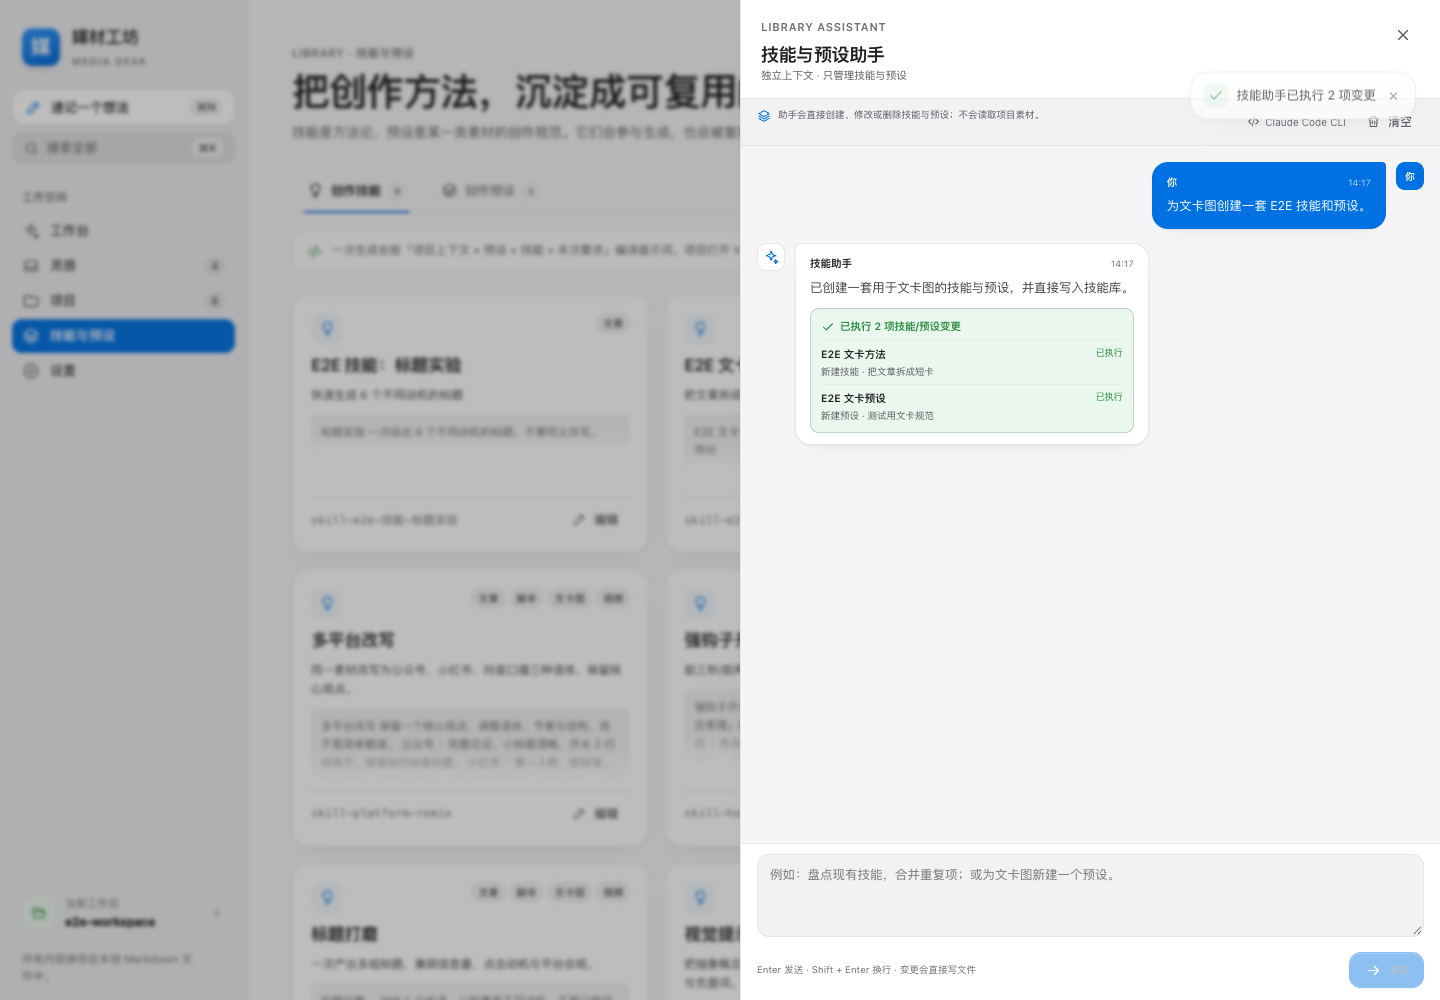
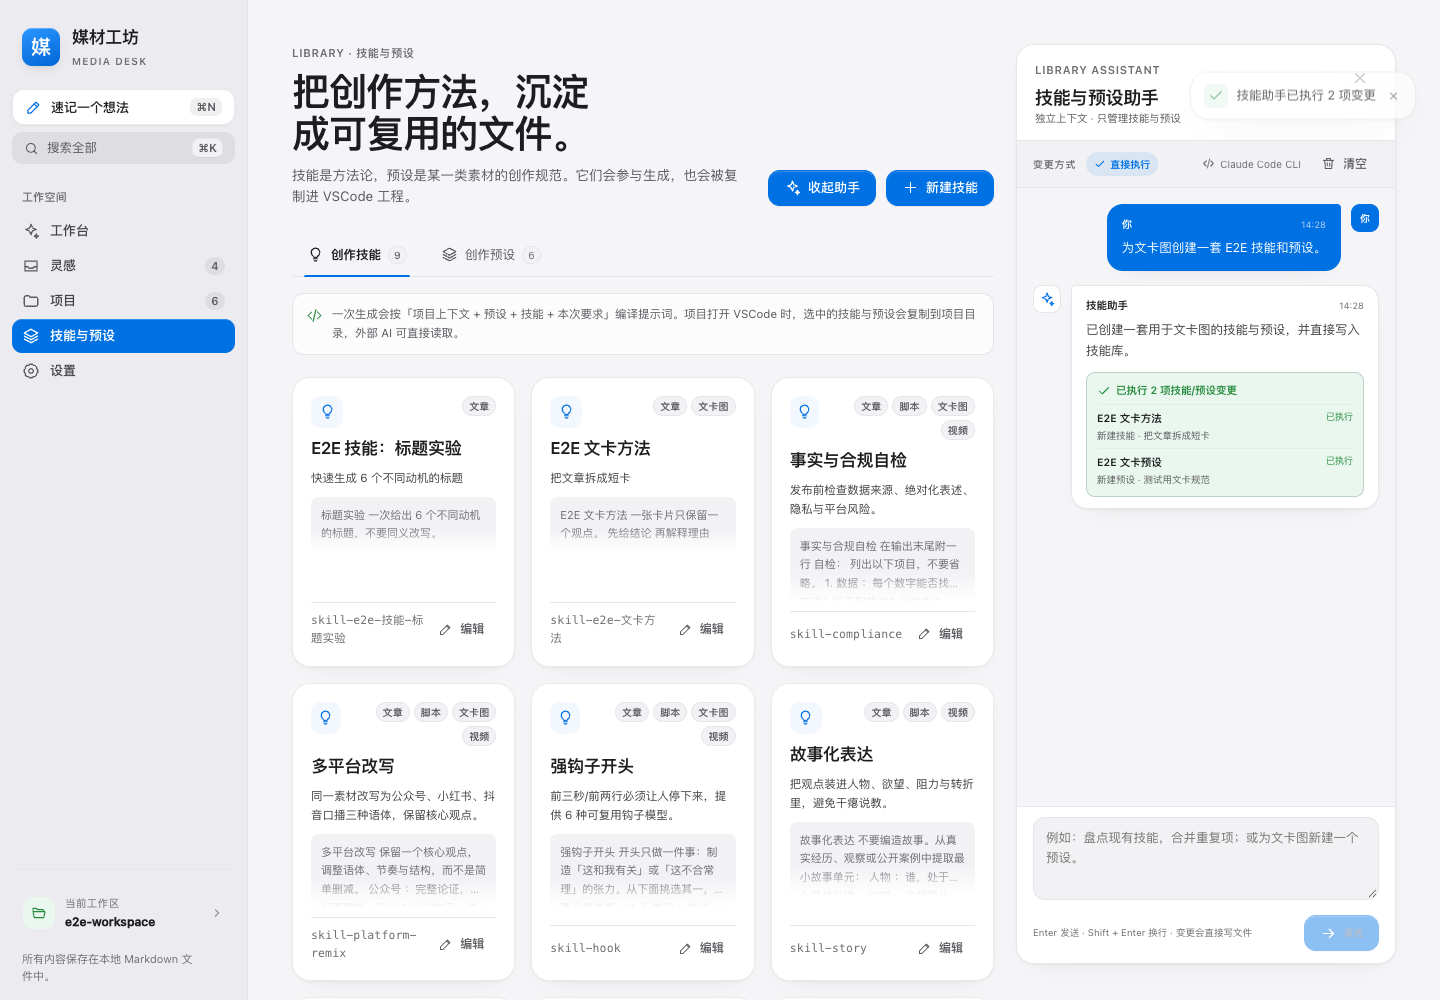
style: align library assistant with project assistant
- Use the same 380px sticky side column and 420px drawer breakpoint
- Reuse the project assistant header, toolbar, thread and composer styles
- Add a consistent direct-execution mode indicator
- Match the header button toggle and floating entry behavior
- Refresh screenshot, docs and v0.8.1 artifacts

diff --git a/src/styles.css b/src/styles.css
@@ -8286,90 +8286,40 @@ input[type="range"] {
   }
 }
 
-/* Library assistant */
-.library-assistant-sidebar .assistant-toolbar {
-  align-items: flex-start;
+/* Library assistant uses the same column/drawer layout as the project assistant. */
+.library-page.has-assistant {
+  display: grid;
+  grid-template-columns: minmax(0, 1fr) 380px;
+  gap: 22px;
+  align-items: start;
+  max-width: 1660px;
 }
 
-.library-assistant-note {
-  display: flex;
-  align-items: flex-start;
-  gap: 7px;
-  max-width: 330px;
-  color: var(--muted);
-  font-size: 9.5px;
-  line-height: 1.55;
-}
-
-.library-assistant-note svg {
-  flex: 0 0 auto;
-  margin-top: 1px;
-  color: var(--accent);
+.library-page.has-assistant .library-content {
+  min-width: 0;
 }
 
 .library-action-row strong {
   font-size: 10.5px;
 }
 
-@media (max-width: 1080px) {
-  .library-assistant-sidebar .assistant-toolbar {
-    flex-direction: column;
-    gap: 10px;
-  }
-
-  .library-assistant-sidebar .assistant-toolbar-right {
-    width: 100%;
-    justify-content: space-between;
-  }
+.assistant-direct-mode {
+  display: inline-flex;
+  align-items: center;
+  gap: 4px;
+  padding: 4px 8px;
+  border-radius: var(--radius-pill);
+  background: var(--accent-soft);
+  color: var(--accent);
+  font-size: 10px;
+  font-weight: 600;
+  white-space: nowrap;
 }
 
-/* Library assistant is a true overlay drawer, unlike the project grid column. */
-.library-assistant-scrim {
-  display: block;
-  position: fixed;
-  inset: 0;
-  z-index: 88;
-  background: rgba(22, 18, 13, 0.28);
-  backdrop-filter: blur(2px);
-  -webkit-backdrop-filter: blur(2px);
-}
-
-.library-assistant-sidebar {
-  position: fixed;
-  top: 0;
-  right: 0;
-  bottom: 0;
-  z-index: 90;
-  width: min(700px, 100vw);
-  height: 100dvh;
-  max-height: none;
-  border-radius: 0;
-  border-top: 0;
-  border-right: 0;
-  border-bottom: 0;
-}
-
-.library-assistant-sidebar .assistant-sidebar-header {
-  padding: 18px 20px 14px;
-}
-
-@media (max-width: 720px) {
-  .library-assistant-sidebar {
-    width: 100vw;
-  }
-}
-
-@media (min-width: 1000px) {
-  .app-shell:has(.library-assistant-sidebar) .toast-host {
-    right: 724px;
-  }
-}
-
-@media (max-width: 999px) {
-  .app-shell:has(.library-assistant-sidebar) .toast-host {
-    top: auto;
-    bottom: 24px;
-    right: 24px;
+@media (max-width: 1359px) {
+  .library-page.has-assistant {
+    display: block;
+    max-width: var(--page-max);
   }
 }
 

diff --git a/src/components/LibraryAssistantPanel.tsx b/src/components/LibraryAssistantPanel.tsx
@@ -180,7 +180,7 @@ export function LibraryAssistantPanel({
 
   return (
     <>
-      <div class="assistant-scrim library-assistant-scrim" onClick={onClose} />
+      <div class="assistant-scrim" onClick={onClose} />
       <aside class="assistant-sidebar library-assistant-sidebar" aria-label="技能与预设助手">
         <header class="assistant-sidebar-header">
           <div>
@@ -192,9 +192,13 @@ export function LibraryAssistantPanel({
         </header>
         <div class="assistant-layout">
           <div class="assistant-toolbar">
-            <div class="library-assistant-note">
-              <Icon name="layers" size={14} />
-              <span>助手会直接创建、修改或删除技能与预设；不会读取项目素材。</span>
+            <div class="assistant-mode">
+              <span class="assistant-mode-label">变更方式</span>
+              <span class="assistant-direct-mode">
+                <Icon name="check" size={12} />
+                直接执行
+              </span>
+              <span class="assistant-mode-hint">助手会直接写入技能与预设文件；不读取项目素材。</span>
             </div>
             <div class="assistant-toolbar-right">
               <span class="assistant-kernel">

diff --git a/src/pages/LibraryPage.tsx b/src/pages/LibraryPage.tsx
@@ -27,7 +27,8 @@ export function LibraryPage() {
   }, [app.data.presets]);
 
   return (
-    <div class="page library-page">
+    <div class={`page library-page ${assistantOpen ? 'has-assistant' : ''}`}>
+      <div class="library-content">
       <header class="page-heading">
         <div>
           <p class="eyebrow">LIBRARY · 技能与预设</p>
@@ -38,11 +39,11 @@ export function LibraryPage() {
         </div>
         <div class="heading-actions">
           <Button
-            variant="secondary"
+            variant={assistantOpen ? 'primary' : 'secondary'}
             icon="spark"
-            onClick={() => setAssistantOpen(true)}
+            onClick={() => setAssistantOpen((value) => !value)}
           >
-            助手
+            {assistantOpen ? '收起助手' : '助手'}
           </Button>
           <Button
             variant="primary"
@@ -168,6 +169,8 @@ export function LibraryPage() {
         open={editingPreset !== null}
         onClose={() => setEditingPreset(null)}
       />
+
+      </div>
 
       {!assistantOpen ? (
         <button

diff --git a/README.md b/README.md
@@ -21,7 +21,7 @@
 - **批量管理**：文章、脚本、插图、文卡与视频均可勾选批量删除；每张卡片悬停也有独立删除按钮，统一进回收站。
 - **概览直达**：项目概览中每一类素材的标题/描述可直接点击进入对应管理页。
 - **助手随时唤起**：项目所有页面右下角悬浮「助手」入口，快捷键 `⌘⇧A` / `Ctrl+Shift+A`。
-- **技能与预设助手**：独立上下文、流式对话，直接创建/更新/删除技能与预设，不读取项目素材。
+- **技能与预设助手**：与项目助手共用同一侧栏、工具栏、消息流和输入区；独立上下文、流式对话，直接创建/更新/删除技能与预设，不读取项目素材。
 - **本地优先**：无账号、无遥测、无外部字体/CDN；API Key 只存在本机 `.mediadesk/config.json`（Unix 下权限 0600）。
 
 ## 界面
@@ -107,8 +107,8 @@ Windows 使用相同 Tauri 配置，在 Windows 上执行 `npx tauri build --bun
 
 | 文件 | 用途 | 大小 |
 |---|---|---|
-| `release/媒材工坊_0.8.0_aarch64.dmg` | 拖入 Applications 的安装包 | 3.69 MB |
-| `release/媒材工坊_0.8.0_aarch64.app.zip` | 免安装应用 | 3.25 MB |
+| `release/媒材工坊_0.8.1_aarch64.dmg` | 拖入 Applications 的安装包 | 3.69 MB |
+| `release/媒材工坊_0.8.1_aarch64.app.zip` | 免安装应用 | 3.25 MB |
 | `release/mediadesk-server-macos-arm64` | 浏览器版单二进制（内嵌 UI） | 3.52 MB |
 
 实测：浏览器服务空载 RSS ≈ 8.7MB，冷启动 0.1–0.6s；原生主进程空载约 35MB、打开工作台约 94MB（系统 WKWebView，进程另计）。完整数据见 [验收记录](docs/ACCEPTANCE.md)。
@@ -259,7 +259,7 @@ Windows 使用相同 Tauri 配置，在 Windows 上执行 `npx tauri build --bun
 ## 设计原则
 
 - **文件是数据库**：没有 SQLite / 私有格式，LLM 与编辑器都能直接读懂。
-- **小体积、低占用**：Preact 前端约 257KB JS（gzip 约 84KB）；Rust 服务常驻内存只有几十 MB；桌面壳使用系统 WebView（WKWebView / WebView2），安装包不含 Chromium。
+- **小体积、低占用**：Preact 前端约 258KB JS（gzip 约 85KB）；Rust 服务常驻内存只有几十 MB；桌面壳使用系统 WebView（WKWebView / WebView2），安装包不含 Chromium。
 - **无外部运行时**：字体、图标、依赖全部本地；生产浏览器版是内嵌 UI 的单文件二进制。
 - **UI**：暖纸色、墨色、朱砂强调、宋体标题的编辑部质感；支持明暗主题与移动端布局。
 - **安全**：只监听 `127.0.0.1`；文件接口限定在 `projects/` 且拒绝隐藏文件、路径穿越与符号链接逃逸；Markdown 预览经 DOMPurify 清洗。
